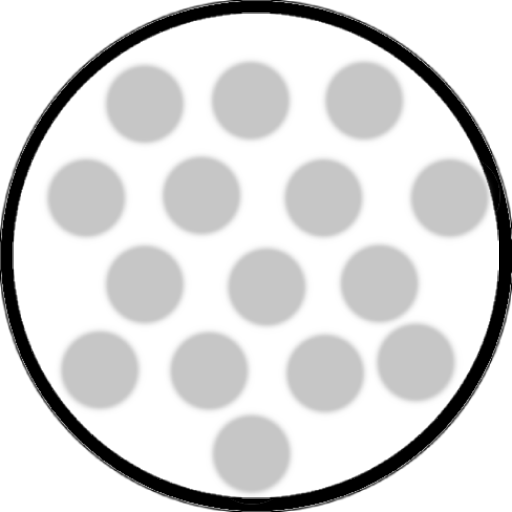
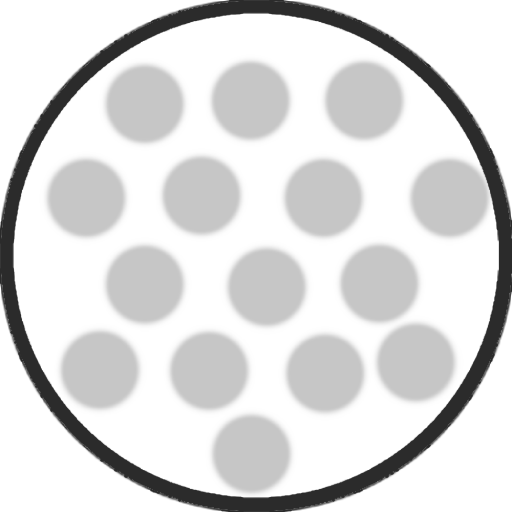
fix ui scaling

Changed region(s): [[0.0, 0.0, 1.0, 1.0]]

diff --git a/CS1401/main_menu.c b/CS1401/main_menu.c
@@ -325,13 +325,17 @@ void main_menu_update(void)
 	sprintf_s(coin_count, 50, "%i", coins);
 	CP_Font_DrawText(coin_count, CP_System_GetWindowWidth() * 0.9f, CP_System_GetWindowHeight() * 0.9f);
 
-	SpriteSheet s = Asset_GetSprite(COIN_ITEM_SPRITE_ASSET, 2, 4, 0.5f);
+	SpriteSheet s = Asset_GetSprite(COIN_ITEM_SPRITE_ASSET, 2, 4, 0.25f);
 	CP_Settings_ImageMode(CP_POSITION_CENTER);
-	Sprite_Draw(s, CP_System_GetWindowWidth() * 0.85f, CP_System_GetWindowHeight() * 0.9f, 60.0f, 60.0f, 255);
+	CP_Settings_ImageFilterMode(CP_IMAGE_FILTER_LINEAR);
+	Sprite_Draw(s, CP_System_GetWindowWidth() * 0.85f, CP_System_GetWindowHeight() * 0.9f,
+		60.0f * (CP_System_GetWindowWidth() / 1600.f), 60.0f * (CP_System_GetWindowHeight() / 900.f),
+		255);
 
 	//SETTING PAGE
 	if (is_setting_clicked) {
 		//drawing setting background
+		CP_Settings_ImageFilterMode(CP_IMAGE_FILTER_NEAREST);
 		CP_Image_Draw(setting_background, CP_System_GetWindowWidth() * 0.5f, CP_System_GetWindowHeight() * 0.5f, CP_System_GetWindowWidth() - 500.f, CP_System_GetWindowHeight() - 300.f, 255);
 
 		volume_bar(mouse_x, mouse_y);
@@ -340,11 +344,19 @@ void main_menu_update(void)
 	//SHOP PAGE
 	if (is_shop_clicked) {
 		//drawing shop background
-		CP_Image_Draw(shop_background, CP_System_GetWindowWidth() * 0.5f, CP_System_GetWindowHeight() * 0.5f, CP_System_GetWindowWidth() - 500.f, CP_System_GetWindowHeight() - 300.f, 255);
+		CP_Settings_ImageFilterMode(CP_IMAGE_FILTER_LINEAR);
+		CP_Image_Draw(shop_background, 
+			CP_System_GetWindowWidth() * 0.5f, CP_System_GetWindowHeight() * 0.5f,
+			CP_System_GetWindowWidth() - (500.f * (CP_System_GetWindowWidth() / 1600.f)), CP_System_GetWindowHeight() - (300.f * (CP_System_GetWindowHeight() / 900.f)),
+			255);
 		CP_Image shop_banner = Asset_GetImage(BANNER);
-		CP_Image_DrawAdvanced(shop_banner, CP_System_GetWindowWidth() * 0.5f, CP_System_GetWindowHeight() * 0.2f, 700.0f, 200.0f, 255, 0.0f);
+		CP_Image_DrawAdvanced(shop_banner, 
+			CP_System_GetWindowWidth() * 0.5f, CP_System_GetWindowHeight() * 0.2f,
+			700.0f * (CP_System_GetWindowWidth() / 1600.f), 200.0f * (CP_System_GetWindowHeight() / 900.f), 255, 0.0f);
 		//shop items would go here
 		draw_text(1.5f, "GOLF SHOP", CP_System_GetWindowWidth() * 0.5f, CP_System_GetWindowHeight() * 0.2f);
+
+		CP_Settings_ImageFilterMode(CP_IMAGE_FILTER_LINEAR);
 		CP_Image_Draw(golf_ball_default_image, CP_System_GetWindowWidth() * 0.3f, CP_System_GetWindowHeight() * 0.5f,
 			CP_System_GetWindowWidth() / 10.f,
 			CP_System_GetWindowWidth() / 10.f,
